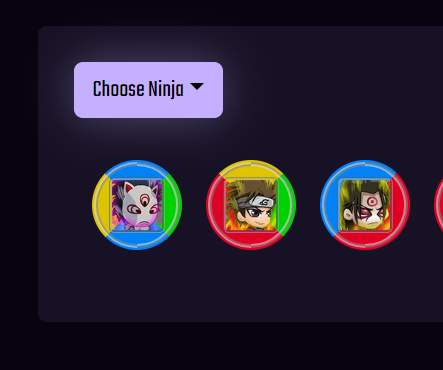
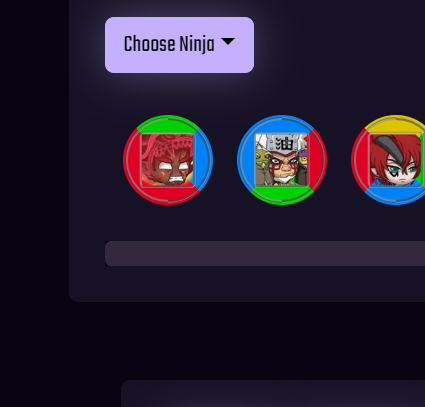
feat : Deploy tool

diff --git a/src/pages/deploy/index.tsx b/src/pages/deploy/index.tsx
@@ -72,7 +72,10 @@ export default function Deploy() {
                 <ConectedPipe dropped={dropped} />
               </Col>
 
-              <Col xl={6} className={'bg-soft-dark-primary-3 p-3 p-md-4 rounded d-flex flex-column justify-content-between mt-5 mt-md-5 mt-lg-0'}>
+              <h2 className="fs-1 d-block d-lg-none text-uppercase  mt-5 mt-md-5 mt-lg-0" style={{ letterSpacing: '1px' }}>
+                DETAIL COMBO NINJA{' '}
+              </h2>
+              <Col xl={6} className={'bg-soft-dark-primary-3 p-3 p-md-4 rounded d-flex flex-column justify-content-between '}>
                 {/* table combo */}
                 <ComboTable ninjas={[...dropped.entries()].map(([_, ninja]) => ninja.replaceAll('-', ' '))} />
 

diff --git a/src/components/ui-elements/card/cardList.ui.tsx b/src/components/ui-elements/card/cardList.ui.tsx
@@ -17,7 +17,7 @@ export default function CardList() {
                   style={{
                     textDecoration: 'none',
                     background: `linear-gradient(243deg, rgba(0, 0, 0, 0.16) 0%, rgba(18, 3, 63, 0.85) 100%), url(${v.img}), rgb(22, 22, 22) 50% / contain no-repeat `,
-                    backgroundPosition: 'center ',
+                    backgroundPosition: 'center !important ',
                   }}
                   className={` card card--${i} mb-4 mb-md-3 mx-md-2 mb-lg-4 mx-lg-3`}
                 >

diff --git a/src/style/style-elements/circle.css b/src/style/style-elements/circle.css
@@ -19,8 +19,9 @@
       position: relative;
     }
     .circle__border{
-      border: 3px solid #dadada94;
-      border-style: ridge;
+      border: 2px solid #95959594;
+      border-style: groove;
+      
       background-color: transparent;
       width: 95%;
       height: 95%;
@@ -44,7 +45,7 @@
     .circle__box img{
       width: 100%;
       height: 100%;
-      margin-top: -10px;
+      margin-top: -6px;
       object-fit: contain;
     }
   

diff --git a/src/data/pages.ts b/src/data/pages.ts
@@ -18,6 +18,6 @@ export const listPage = [
     name: 'Ninja',
     shortDesc: 'All Ninjas',
     desc: 'current available ninjas \nCalculate Quality for each ninja',
-    img: '/assets/bg/w2.png',
+    img: '/assets/bg/w6.png',
   },
 ];
